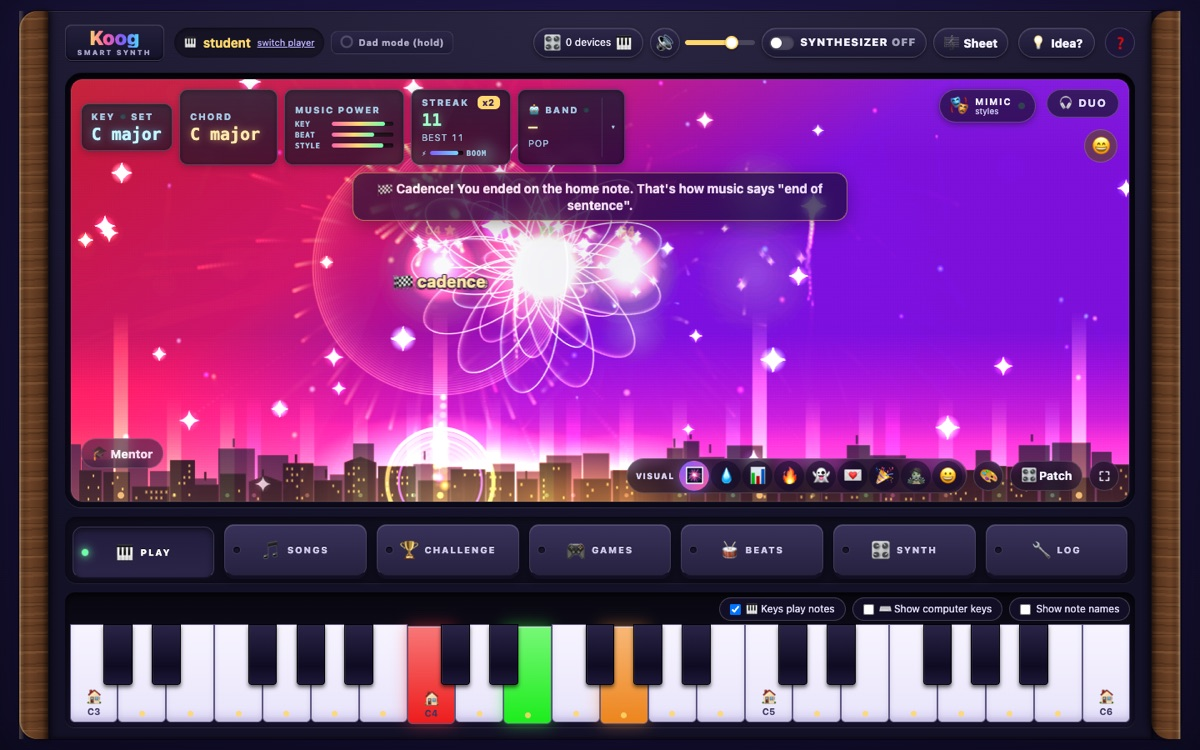
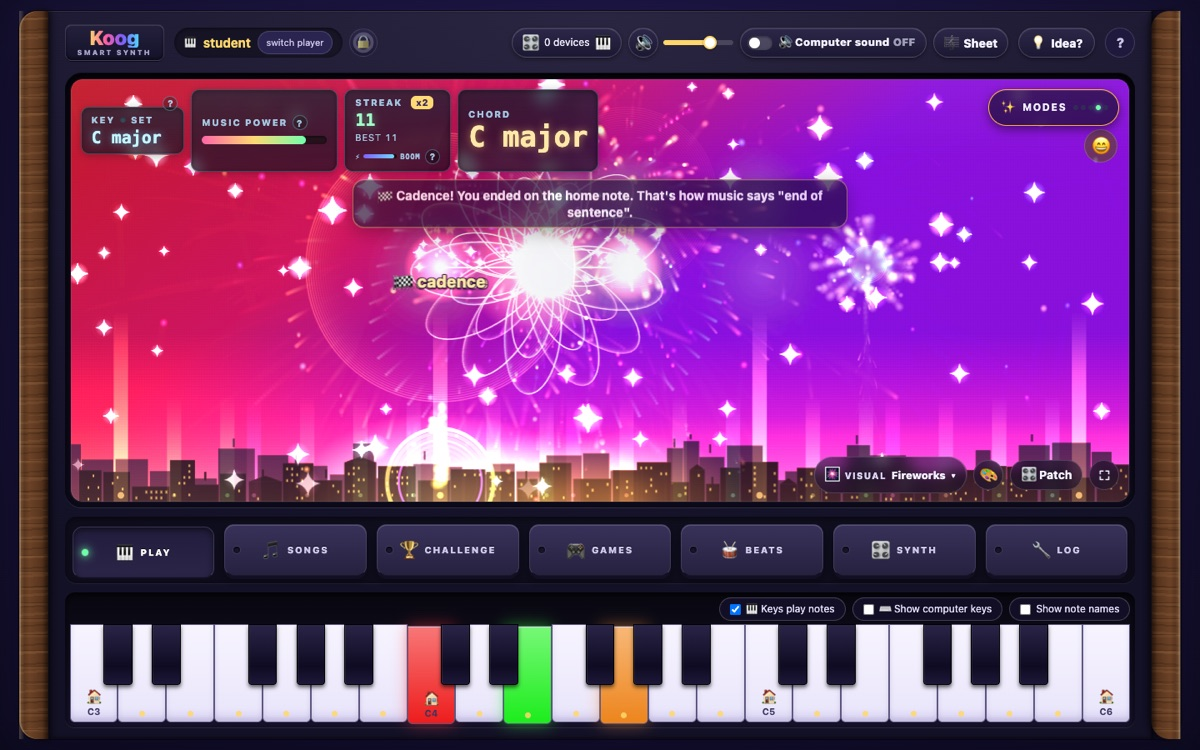
Fix Mentor speech bubbles piling up (bubble and owl seat shared numeric React keys), move the no-keyboard hint inside the keybed, refresh README screenshots for the new UI
Claude-Session: https://claude.ai/code/session_01VAs8VNy4sBx3Y33LLJLrLR

diff --git a/src/features/mentor/Mentor.tsx b/src/features/mentor/Mentor.tsx
@@ -53,9 +53,9 @@ export function Mentor({ tech = false }: { tech?: boolean }) {
           {reel.note && <div className="mn-reel-n">{reel.note}</div>}
         </div>
       )}
-      {line && !reel && <div key={line.id} className={'mn-bubble mn-' + (line.tone ?? 'praise')} role="status">{line.text}</div>}
+      {line && !reel && <div key={'line-' + line.id} className={'mn-bubble mn-' + (line.tone ?? 'praise')} role="status">{line.text}</div>}
       <button className="mn-off" aria-label="Turn Mentor off" title="Mentor is on. Tap to turn off" onClick={() => useMentor.getState().setOn(false)}>✕</button>
-      <button key={moodN} className="mn-seat" onClick={() => (reel ? closeReel() : showReel(true))} title="Your Mentor is listening. Tap for the highlights" aria-label="Mentor: show highlights">
+      <button key={'seat-' + moodN} className="mn-seat" onClick={() => (reel ? closeReel() : showReel(true))} title="Your Mentor is listening. Tap for the highlights" aria-label="Mentor: show highlights">
         <Owl mood={mood} />
       </button>
     </div>

diff --git a/src/features/keyboard/keyboard.css b/src/features/keyboard/keyboard.css
@@ -58,7 +58,7 @@
 @media (prefers-reduced-motion: reduce) { .kb-peek { animation: none } }
 
 /* first-visit nudge above the keybed's left side; gone after the first note */
-.kb-nudge { position: absolute; left: 10px; top: -30px; z-index: 5; display: inline-flex; align-items: center; height: 24px; padding: 0 12px; border-radius: var(--k-r-pill, 999px); pointer-events: none;
+.kb-nudge { position: absolute; left: 10px; top: 6px; z-index: 5; display: inline-flex; align-items: center; height: 24px; padding: 0 12px; border-radius: var(--k-r-pill, 999px); pointer-events: none;
   font-size: 12px; font-weight: 700; color: var(--k-ink, #f4f2ff); background: rgba(10, 8, 30, .7); border: 1px solid var(--k-line-strong, rgba(255,255,255,.28)); backdrop-filter: blur(8px); }
 
 /* the first-run "Tap any key!" banner already says how to play, so hide the keybed nudge while it shows */

diff --git a/README.md b/README.md
@@ -41,8 +41,8 @@ It runs in Chrome or Edge on any computer. Plug in any USB-MIDI keyboard, or pla
 
 | | |
 |---|---|
-| ![Vibes mode: the student plays an A minor chord and a large crying face appears with the label SAD, alongside a sad-to-happy mood map.](docs/images/02-vibes.jpg) | ![Mentor mode: a friendly owl says "First time I've seen you use a wide range! You're using the whole keyboard, low rumbles to high sparkles. Nice range."](docs/images/05-mentor.jpg) |
-| **Vibes:** chords become feelings. Minor chords look sad, major chords happy. Students hear *why* music sounds the way it does. | **Mentor:** an encouraging audience member that names what the student did (motif, sequence, cadence, a quote from a learned tune) and gives one kind tip at a time. |
+| ![Vibes mode: the student plays an A minor chord and a large crying face appears with the label SAD, alongside a sad-to-happy mood map.](docs/images/02-vibes.jpg) | ![Mentor mode: the student plays Ode to Joy in G during free play, and a friendly owl in the corner says "Was that Ode to Joy?! In G, sneaky."](docs/images/05-mentor.jpg) |
+| **Vibes:** chords become feelings. Minor chords look sad, major chords happy. Students hear *why* music sounds the way it does. | **Mentor:** an encouraging audience member that names what the student did (motif, sequence, cadence) and spots tunes they've learned, even played in a new key. It gives one kind tip at a time. |
 | ![Sheet music mode: a grand staff under the display shows Ode to Joy with chord symbols above; played notes turn green and a gold cursor marks the current note.](docs/images/04-sheet.jpg) | ![The Learn it screen for Ode to Joy: phrase 1 of 10 with note bubbles E, E, F, the instruction "Listen and watch the keys light up", and seven rungs from Listen to Both hands.](docs/images/03-learn.jpg) |
 | **Sheet music:** a play-along grand staff at three levels (single notes, easy chords, full). It also writes down what a student improvises. | **Learn it:** the phrase trainer. The next key glows on the keyboard; each rung removes one support. |
 | ![BachDoom: a retro pixel-art hall with demons labelled C4, D4 and E4, a pipe-organ gun, and the text "WAVE 1/5: FOLLOW, WATCH AND LISTEN".](docs/images/06-bachdoom.jpg) | ![The synth history rack: cards for the Theremin (1920), Ondes Martenot (1928), Tonewheel Organ (1935), Tape Keyboard (1963), Moog-style modular (1964), ARP 2600-style (1971) and more.](docs/images/07-history.jpg) |
